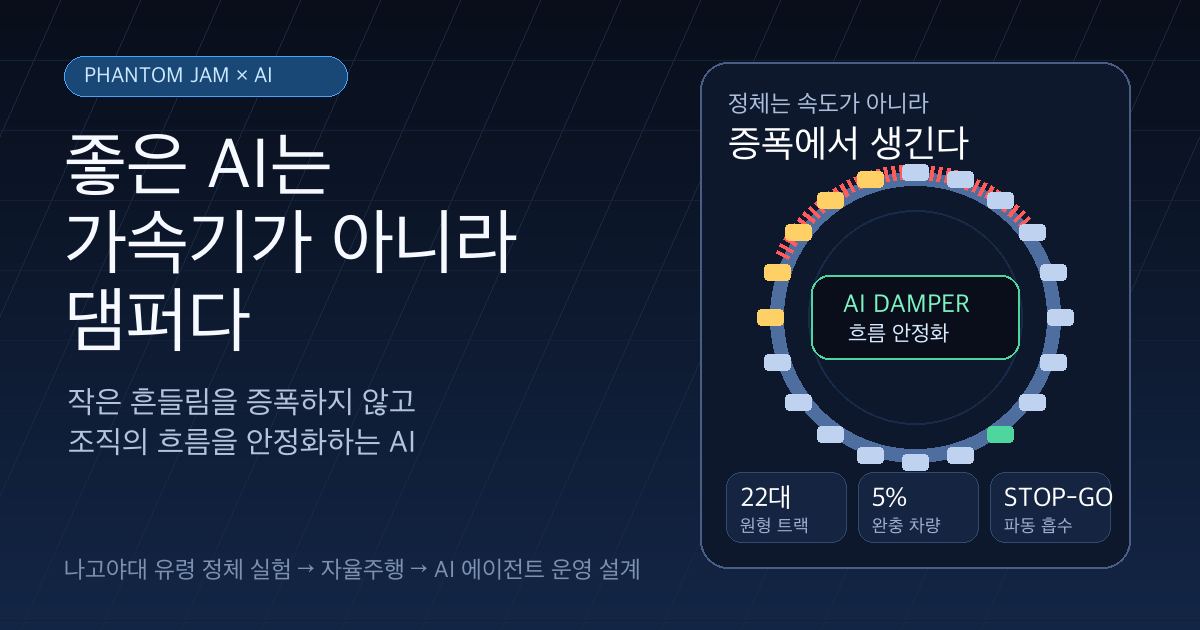
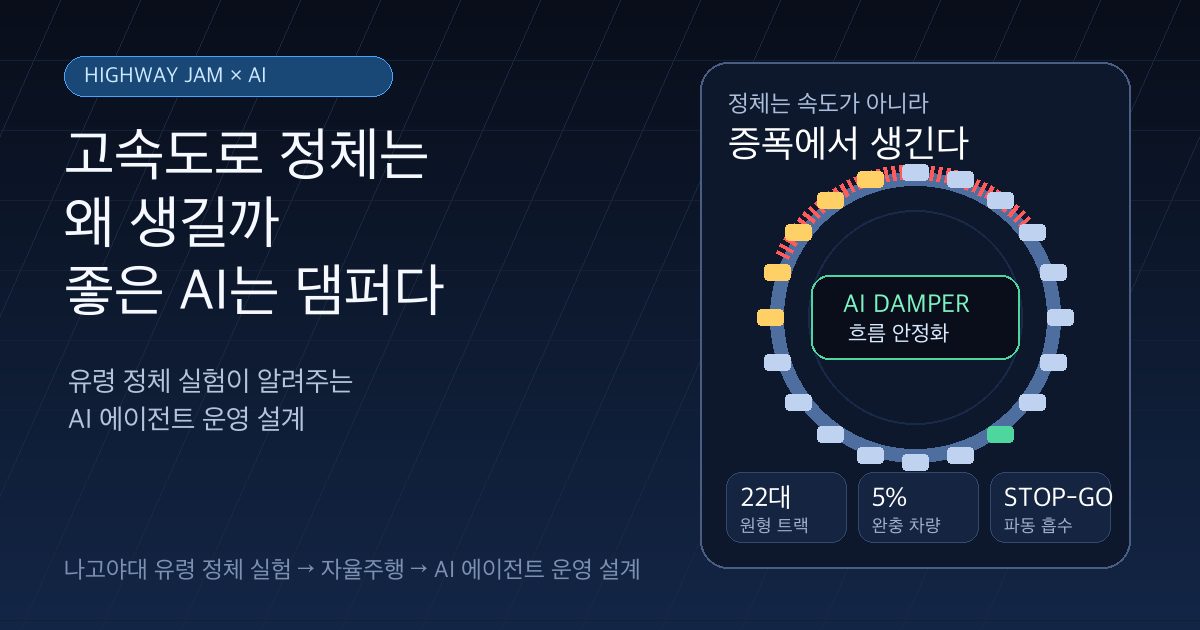
Update AI damper post title

Changed region(s): [[0.0308, 0.2111, 0.4317, 0.7238], [0.0617, 0.0905, 0.2158, 0.1508], [0.2775, 0.0905, 0.3392, 0.181]]

diff --git a/_notes/ai/2026-09-25-ai-as-damper-phantom-traffic-jam.md b/_notes/ai/2026-09-25-ai-as-damper-phantom-traffic-jam.md
@@ -1,5 +1,5 @@
 ---
-title: "좋은 AI는 가속기가 아니라 댐퍼다"
+title: "고속도로 정체는 왜 생길까: 좋은 AI는 가속기가 아니라 댐퍼다"
 date: 2026-09-25 11:35:00 +0900
 last_modified_at: 2026-09-25 11:35:00 +0900
 categories: [ai]
